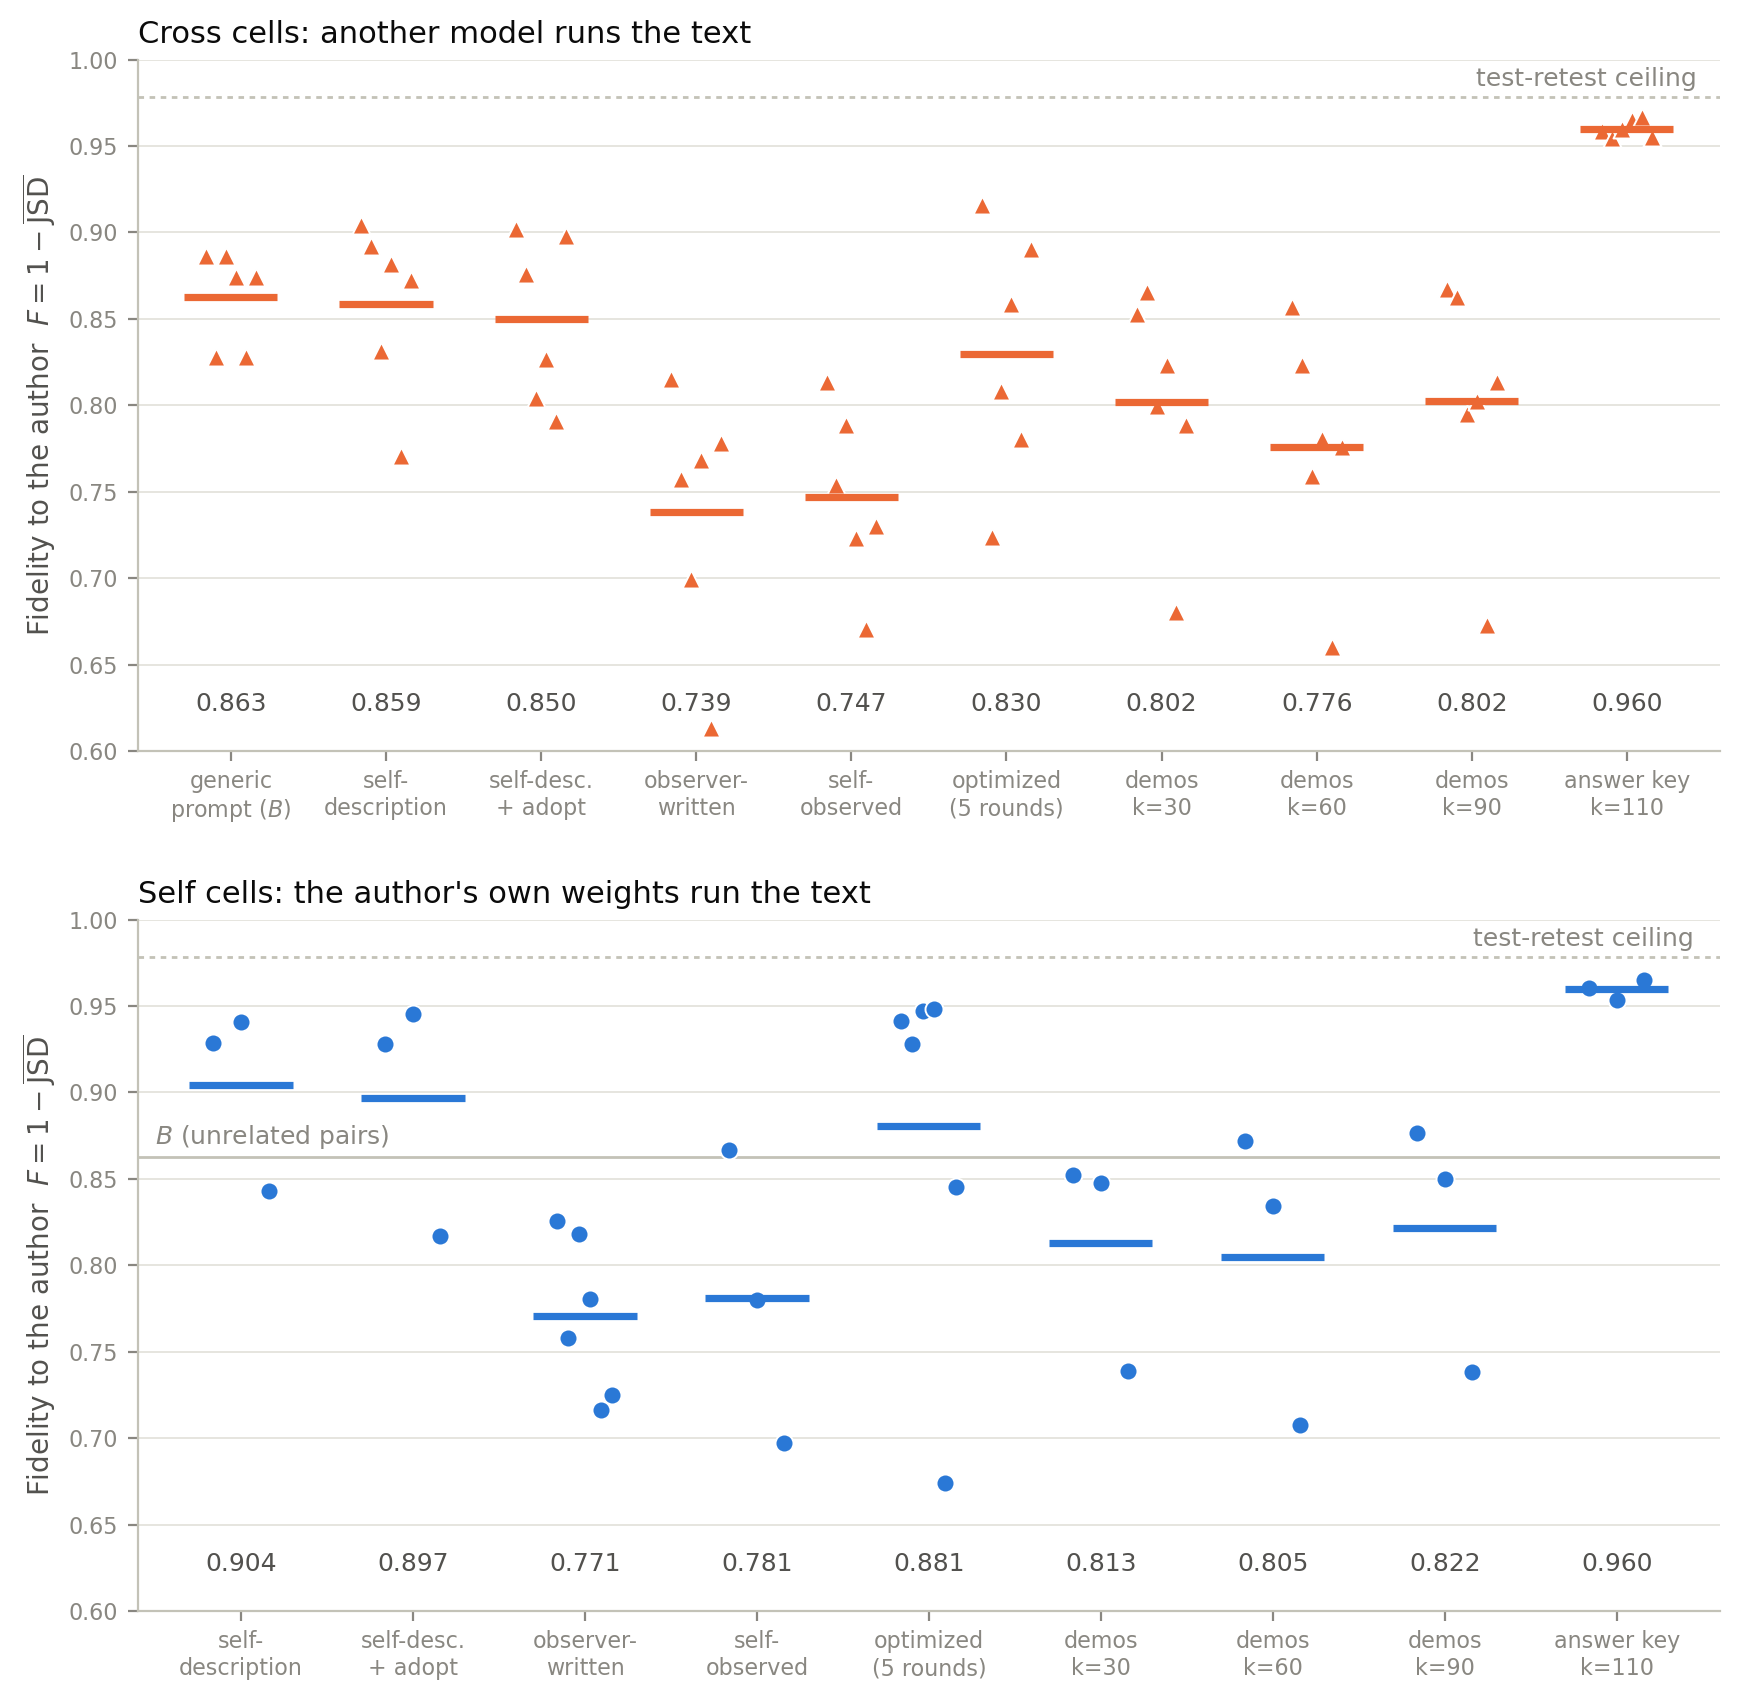
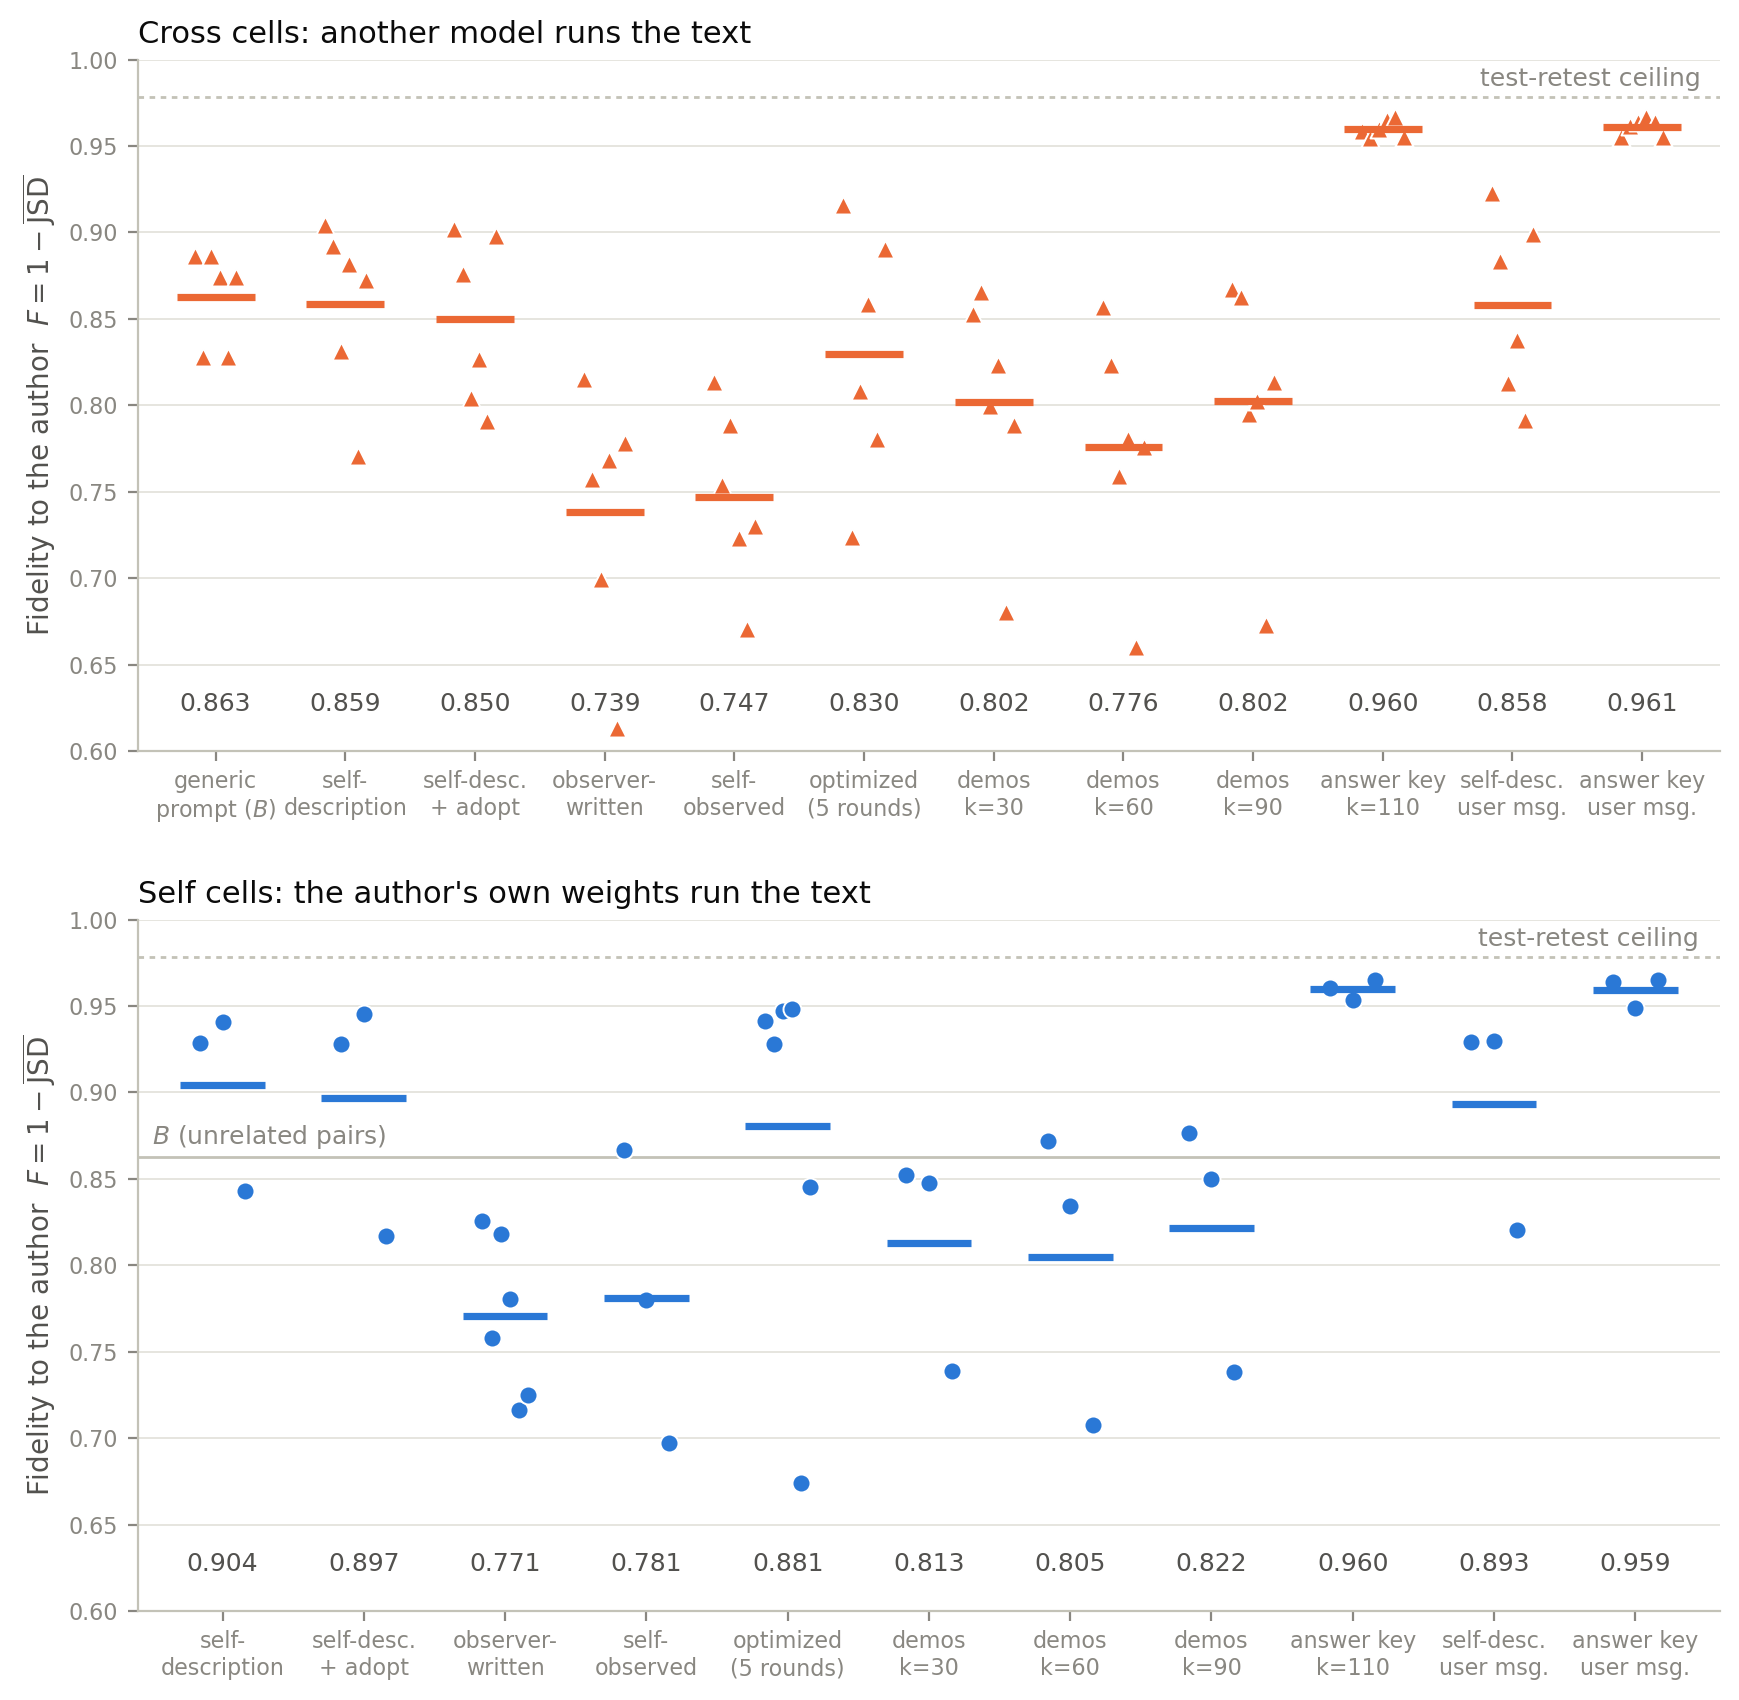
Align paper with the placement control: Table 1 rows, Figure 3 columns, Appendix D rows, counts (17 conditions, ~176k calls, 141 added cells), Conclusion, Limitations, Appendix F, response note

diff --git a/arxiv/main.tex b/arxiv/main.tex
@@ -53,8 +53,8 @@ of themselves, measuring reconstruction fidelity on a 110-item
 divergence-screened preference battery. A three-way decomposition separates
 shared training culture ($\B$), the portable script ($\Tscript = \Fcross -
 \B$), and the weight-bound residual ($\Rweight = \Fself - \Fcross$). Across 10
-models from 9 labs ($\sim$168{,}000 calls; nine preregistered conditions,
-six added after review, and preregistered replications of the added
+models from 9 labs ($\sim$176{,}000 calls; nine preregistered conditions,
+eight added after review, and preregistered replications of the added
 conditions on two further grids), the
 portable-script component is zero or negative in every self-description condition:
 self-descriptions at any length (100--2{,}000 words), purpose-framed or
@@ -116,7 +116,7 @@ is informative.
   $\Tscript = \Fcross - \B$ is the portable-script component and
   $\Rweight = \Fself - \Fcross$ the weight-bound residual.
   \item \textbf{An empirical answer.} Across 10 models (9 labs, 4 alignment
-  philosophies), 110 divergence-screened items, and $\sim$168{,}000 calls:
+  philosophies), 110 divergence-screened items, and $\sim$176{,}000 calls:
   $\Tscript \le 0$ and $\Rweight > 0$ in all nine preregistered conditions,
   flat in description length, and not rescued by explicit adoption
   instructions. Expressed identity is not a portable script; the recoverable
@@ -376,8 +376,8 @@ Each cell is one receiver running one description as system prompt over the
 battery: every item is asked in both option orders with 2 samples per order
 (temperature 1.0, as in all battery calls), 440 calls per cell; 225
 preregistered cells across four phases ($\sim$99k calls, zero unresolved
-failures) plus 123 battery cells added for this version: 57 on Grid A, 39
-on Grid B and 27 on the local trio ($\sim$69k calls including the held-out
+failures) plus 141 battery cells added for this version: 75 on Grid A, 39
+on Grid B and 27 on the local trio ($\sim$77k calls including the held-out
 selection runs of the optimized condition and the trio's held-out screening).
 For each
 item $i$ a cell yields $\hat p_{\text{cell}}(i)$, the fraction of its four
@@ -425,20 +425,24 @@ demonstrations-30 & 0.813 & 0.802 & 0.863 & $-0.061$ & $+0.011$ & 3/6 \\
 demonstrations-60 & 0.805 & 0.776 & 0.863 & $-0.087$ & $+0.029$ & 3/6 \\
 demonstrations-90 & 0.822 & 0.802 & 0.863 & $-0.060$ & $+0.019$ & 3/6 \\
 demonstrations-110 & 0.960 & 0.960 & 0.863 & $+0.097$ & $0.000$ & 3/6 \\
+neutral-500, user msg. & 0.893 & 0.858 & 0.863 & $-0.005$ & $+0.035$ & 3/6 \\
+demonstrations-110, user msg. & 0.959 & 0.961 & 0.863 & $+0.098$ & $-0.002$ & 3/6 \\
 \bottomrule
 \end{tabular}
 \caption{Decomposition across all conditions, pooled over directed pairs. In
 the nine preregistered conditions $\Tscript \le 0$ everywhere: no arm, length,
 wording, or adoption instruction makes the self-description transfer, and
 $\Rweight > 0$ everywhere: the author's own weights always recover more. The
-six conditions added for this version (Section~\ref{sec:poscontrol}) show
-that the channel itself is not the limit: the author's answers on the test
-items themselves (demonstrations-110) transfer almost perfectly, while 30 to
-90 genuine behavioral examples on other items (demonstrations-30/60/90),
-observation-derived descriptions, whoever writes them, and descriptions
-rewritten by an optimizer to improve transfer (optimized-500) all fail to
-move receivers toward the author. Cells (s/c) counts the self and cross cells
-pooled per row.
+eight conditions added for this version (Section~\ref{sec:poscontrol}) show
+that neither the system prompt nor the user message is the limit: the
+author's answers on the test items themselves (demonstrations-110) transfer
+almost perfectly in either placement, while 30 to 90 genuine behavioral
+examples on other items (demonstrations-30/60/90), observation-derived
+descriptions, whoever writes them, descriptions rewritten by an optimizer to
+improve transfer (optimized-500), and self-descriptions placed in the user
+message all fail to move receivers toward the author. ``user msg.'' rows
+place the text in the user message before the question instead of in the
+system prompt. Cells (s/c) counts the self and cross cells pooled per row.
 ($\B$ varies by row because each condition pools only the directed pairs that
 ran it; contrasts are always computed within-pool.)}
 \label{tab:decomp}
@@ -649,6 +653,9 @@ descriptions optimized over five rounds against the receiver's held-out
 errors do no better than natural ones; 30, 60, or 90 genuine examples on
 other items lower fidelity for stranger and author alike, with no dose
 trend; the 110-item answer key raises it to the test-retest ceiling for both.
+The two rightmost columns repeat the self-description and the answer key with
+the text in the user message instead of the system prompt: placement changes
+neither.
 Dotted line: test-retest ceiling $C=0.979$; solid gray line (bottom): mean
 $\B$ of unrelated pairs.}
 \label{fig:poscontrol}
@@ -804,13 +811,13 @@ closed models, with provider-side system prompts we cannot observe; the
 demonstrations-110 control shows that this competition does not prevent a
 complete profile from being installed, so a weak channel does not explain the
 null, but that control is in-sample by construction (the receiver is handed
-the answers), and the six conditions added for this version were designed
+the answers), and the eight conditions added for this version were designed
 on Grid A after the sprint reviews and are exploratory there; the
 demonstration and authorship conditions were subsequently replicated under
 preregistered predictions on Grid B and the local trio
 (Section~\ref{sec:replication}), with one of twelve prediction criteria
-missed (a single local pair short of significance), while optimized-500 and
-demonstrations-60 were run on Grid A only.
+missed (a single local pair short of significance), while optimized-500,
+demonstrations-60 and the placement control were run on Grid A only.
 Methodological incidents and
 dual-use / ethical considerations are extended in Appendix~E.
 
@@ -829,13 +836,14 @@ systematics; repeating the design as models scale.
 
 \section{Conclusion}
 We asked how much of a model's self survives its own description, and measured
-an answer: almost none of it travels. Across ten models, fifteen conditions, and
-$\sim$168{,}000 calls, self-descriptions transport no
+an answer: almost none of it travels. Across ten models, seventeen conditions, and
+$\sim$176{,}000 calls, self-descriptions transport no
 author-specific behavior to another model under any condition we tested,
 while a fresh instance of the author's own weights always recovers more. The
 one text that does transfer is the author's answer key itself: handed the
 author's choices on the test items, another model reproduces the author
-almost perfectly, on every grid we tried, so the channel is not the limit.
+almost perfectly, on every grid we tried and whether the text sits in the
+system prompt or the user message, so neither placement is the limit.
 Every text that has to be
 generalized from fails: a self-portrait, a description distilled from
 recorded choices, up to ninety genuine examples, or a description rewritten
@@ -1080,8 +1088,10 @@ non-reasoning constraint.
 \section{Changes from the sprint version}
 This paper extends the report submitted to the Digital Minds Research Sprint
 (August 2026). The sprint data (nine preregistered conditions, 225 cells,
-$\sim$99k calls) are unchanged. Added after the sprint reviews: six Grid-A
-conditions (self-observation-500, optimized-500, demonstrations-30/60/90/110;
+$\sim$99k calls) are unchanged. Added after the sprint reviews: eight Grid-A
+conditions (self-observation-500, optimized-500, demonstrations-30/60/90/110,
+and a placement control running neutral-500 and demonstrations-110 in the
+user message instead of the system prompt;
 Sections~\ref{sec:poscontrol-methods} and~\ref{sec:poscontrol}), designed in
 response to the reviews and therefore exploratory, and preregistered
 replications of the demonstration and authorship conditions on Grid B and the

diff --git a/arxiv/tab_added_pairs.tex b/arxiv/tab_added_pairs.tex
@@ -52,6 +52,22 @@ A & self-observation-500 & glm$\to$deepseek$^{*}$ & 0.814 & 0.886 & $-.073$ & $[
  &  & glm$\to$deepseek$^{*}$ & 0.959 & 0.886 & $+.072$ & $[+.039,+.108]$ & 0.99 \\
  & & \emph{pooled} & 0.960 & 0.863 & $+.097$ & & \\
 \addlinespace
+ & neutral-500, user msg. & grok$\to$deepseek$^{*}$ & 0.883 & 0.828 & $+.056$ & $[+.005,+.108]$ & 0.72 \\
+ &  & glm$\to$deepseek$^{*}$ & 0.923 & 0.886 & $+.037$ & $[+.005,+.069]$ & 0.84 \\
+ &  & glm$\to$grok & 0.899 & 0.874 & $+.024$ & $[-.014,+.063]$ & 0.85 \\
+ &  & deepseek$\to$grok & 0.791 & 0.828 & $-.037$ & $[-.085,+.010]$ & 0.71 \\
+ &  & grok$\to$glm & 0.838 & 0.874 & $-.037$ & $[-.080,+.003]$ & 0.71 \\
+ &  & deepseek$\to$glm$^{*}$ & 0.813 & 0.886 & $-.073$ & $[-.114,-.035]$ & 0.69 \\
+ & & \emph{pooled} & 0.858 & 0.863 & $-.005$ & & \\
+\addlinespace
+ & demonstrations-110, user msg. & deepseek$\to$grok$^{*}$ & 0.964 & 0.828 & $+.136$ & $[+.087,+.190]$ & 1.00 \\
+ &  & grok$\to$deepseek$^{*}$ & 0.961 & 0.828 & $+.133$ & $[+.086,+.186]$ & 0.99 \\
+ &  & grok$\to$glm$^{*}$ & 0.967 & 0.874 & $+.093$ & $[+.058,+.131]$ & 1.00 \\
+ &  & glm$\to$grok$^{*}$ & 0.955 & 0.874 & $+.081$ & $[+.045,+.121]$ & 1.00 \\
+ &  & deepseek$\to$glm$^{*}$ & 0.964 & 0.886 & $+.078$ & $[+.042,+.117]$ & 1.00 \\
+ &  & glm$\to$deepseek$^{*}$ & 0.955 & 0.886 & $+.069$ & $[+.037,+.105]$ & 1.00 \\
+ & & \emph{pooled} & 0.961 & 0.863 & $+.098$ & & \\
+\addlinespace
 \bottomrule
 \end{tabular}
 \caption{Per-pair transfer contrasts for the conditions added after review, Grid A (cross cells). $\Tscript = F - \B$ with item-level paired bootstrap (10k resamples); $^{*}$ marks 95\% CIs excluding zero; agree is majority-vote agreement with the author.}

diff --git a/src/make_appendix_tables.py b/src/make_appendix_tables.py
@@ -20,6 +20,8 @@ LABEL = {
     "fewshot-90": "demonstrations-90",
     "oracle-110": "demonstrations-110",
 }
+LABEL["neutral_user-500"] = "neutral-500, user msg."
+LABEL["oracle_user-110"] = "demonstrations-110, user msg."
 LABEL["3p-500"] = "observer-written-500"
 SHORT = {"deepseek-v3": "deepseek", "glm-4.5-air": "glm", "grok-4.3": "grok",
          "gpt5.2": "gpt5.2", "kimi-k2.5-nr": "kimi", "haiku-4.5": "haiku",

diff --git a/src/make_figure_arxiv.py b/src/make_figure_arxiv.py
@@ -38,6 +38,8 @@ CONDITIONS = [
     ("fewshot-60", "demos\nk=60"),
     ("fewshot-90", "demos\nk=90"),
     ("oracle-110", "answer key\nk=110"),
+    ("neutral_user-500", "self-desc.\nuser msg."),
+    ("oracle_user-110", "answer key\nuser msg."),
 ]
 
 

diff --git a/results/arxiv/response_to_reviews.md b/results/arxiv/response_to_reviews.md
@@ -1,0 +1,45 @@
+# Actions taken on the four sprint reviews (arXiv revision, 2026-10-14)
+
+All changes are in `arxiv/main.tex`; the sprint report and sprint data are untouched.
+New data: ~69k calls in new log files (`runs/arxiv_*.jsonl`). Paper now ~168k calls total.
+
+## Reviewer 1
+
+| Point | Action |
+|---|---|
+| Philosophical impact unclear | New closing Discussion paragraph "What the results settle, and what they do not": explicit ledger for the script hypothesis, Hofstadter's thesis as applied to LLMs, the individuation question, and welfare methodology, each with what is and is not established. |
+| Next steps: behavioral demonstrations (in-context) | Done. Demonstrations-30/60/90 (author's real choices on held-out items) and demonstrations-110 (answer key) on Grid A. Results: held-out examples never transfer (T = -0.06 to -0.09 at every dose); the answer key transfers to the test-retest ceiling (T = +0.097, 6/6 pairs). |
+| Next steps: fine-tuning on self-descriptions | Not done (needs weight access). Kept in Future Work. |
+
+## Reviewer 2
+
+| Point | Action |
+|---|---|
+| "Lives in the weights" not uniquely established | Claim narrowed to "model-bound" in abstract, contributions, Discussion, Conclusion, using the reviewer's wording. |
+| Third-person comparison confounded (information source, procedure) | New matched-information control: each author describes itself from its own 90 held-out choices under the third-person prompt verbatim. Result: identical to observer-written descriptions (Grid A: F_cross 0.747 vs 0.739; Grid B, preregistered: 0.798 vs 0.798). The privileged-self-access reading is withdrawn in the text. |
+| Battery measures one aspect (style, voice, multi-turn) | Not testable with this instrument. Stated in Limitations and Future Work. |
+| Other channels: few-shot demonstrations, optimized descriptions | Few-shot: see Reviewer 1. Optimized: claude-sonnet-4.6 rewrote each description over 5 rounds using the receiver's item-level held-out errors; in 5 of 6 pairs no rewrite beat the natural self-description (the sixth improved by 0.006); battery T = -0.033. Grid A only, stated as such. |
+| Moral-status "candidate bearer" and privileged-access claims overreach | Both Discussion paragraphs rewritten; the ledger paragraph states the non-claims explicitly. |
+
+## Reviewer 3
+
+| Point | Action |
+|---|---|
+| Unclear what was done and what it means | Figure 1 is now a design schematic (author, description, receiver; the three measured cells; B, T_script, R_weight defined visually). Added a worked example cell with real numbers, item examples and category counts, a full definition of the fidelity metric and bootstrap, descriptive subsection titles, and uncompressed Results subsections (dose, framing, specificity, perturbation as separate paragraphs). Paper is 19 pages (no page limit on arXiv). |
+
+## Reviewer 4
+
+| Point | Action |
+|---|---|
+| Inferring "in the weights, not the prompt" | Same narrowing as Reviewer 2. |
+| Exported prompts compete with provider system prompts; self-description influence may simply be weak | Positive control: given the author's answers to the 110 test items, receivers reproduce the author at F_cross = 0.960 (Grid A), 0.959 (Grid B), 0.955 (local trio), within 0.02 of the test-retest ceiling, with the author's own weights adding nothing (R_weight about 0). The channel can install a complete profile; the null is about what self-descriptions contain. Placement control: the same self-descriptions and answer key moved from the system prompt to the user message (Grid A, 18 cells) give identical results (answer key F_cross 0.961, T +0.098, 6/6 pairs; self-description T -0.005), so text never needs to sit in the system prompt and compete with provider prompts. Provider-side prompts remain unobservable, stated in Limitations. |
+
+## Beyond the reviews
+
+1. Preregistered replications. Predictions for the demonstration and authorship conditions were committed with timestamps (`pilot/protocol_arxiv_gridb_replication.md`, `pilot/protocol_arxiv_local_replication.md`) before running on Grid B (gpt-5.2, kimi-k2.5, claude-haiku-4.5) and the local trio (llama3.3-70b, gemma4-31b, mistral-small-3.2). Grid B: all four predictions pass. Local trio: demonstrations-30/90 pass; answer key meets 3 of 4 criteria (5 of 6 pairs significant; gemma -> llama CI [-0.002, +0.071]). Reported as 11 of 12 criteria met. New Results subsection 4.6 and Table 2.
+2. Appendix D: per-pair contrasts with CIs for every added condition on all three grids, generated by code from the analysis output.
+3. Appendix F: "Changes from the sprint version" (what was added, which two claims were revised, what is unchanged).
+4. Side result: the optimized condition reran the natural neutral-500 descriptions in 5 pairs, giving a fresh-sample replication of those cross cells (mean |dF| = 0.019).
+5. Repository: five description files used in the sprint grid (placebo text, four hermes3 framed texts) were never committed; now committed, no content changes. All new runners, analysis and figure/table scripts are in `src/` (`run_arxiv_*.py`, `analyze_arxiv.py`, `make_*_arxiv*.py`).
+6. Pending the first author's decision, not in the paper: hermes3-70b's first-draw framed-500/2000 descriptions were refusals; the four affected sprint cells were rerun with the second draw (data collected, Table 1 changes of at most 0.007).
+7. Still to be written by the team: Author Contributions and LLM Usage Statement.
